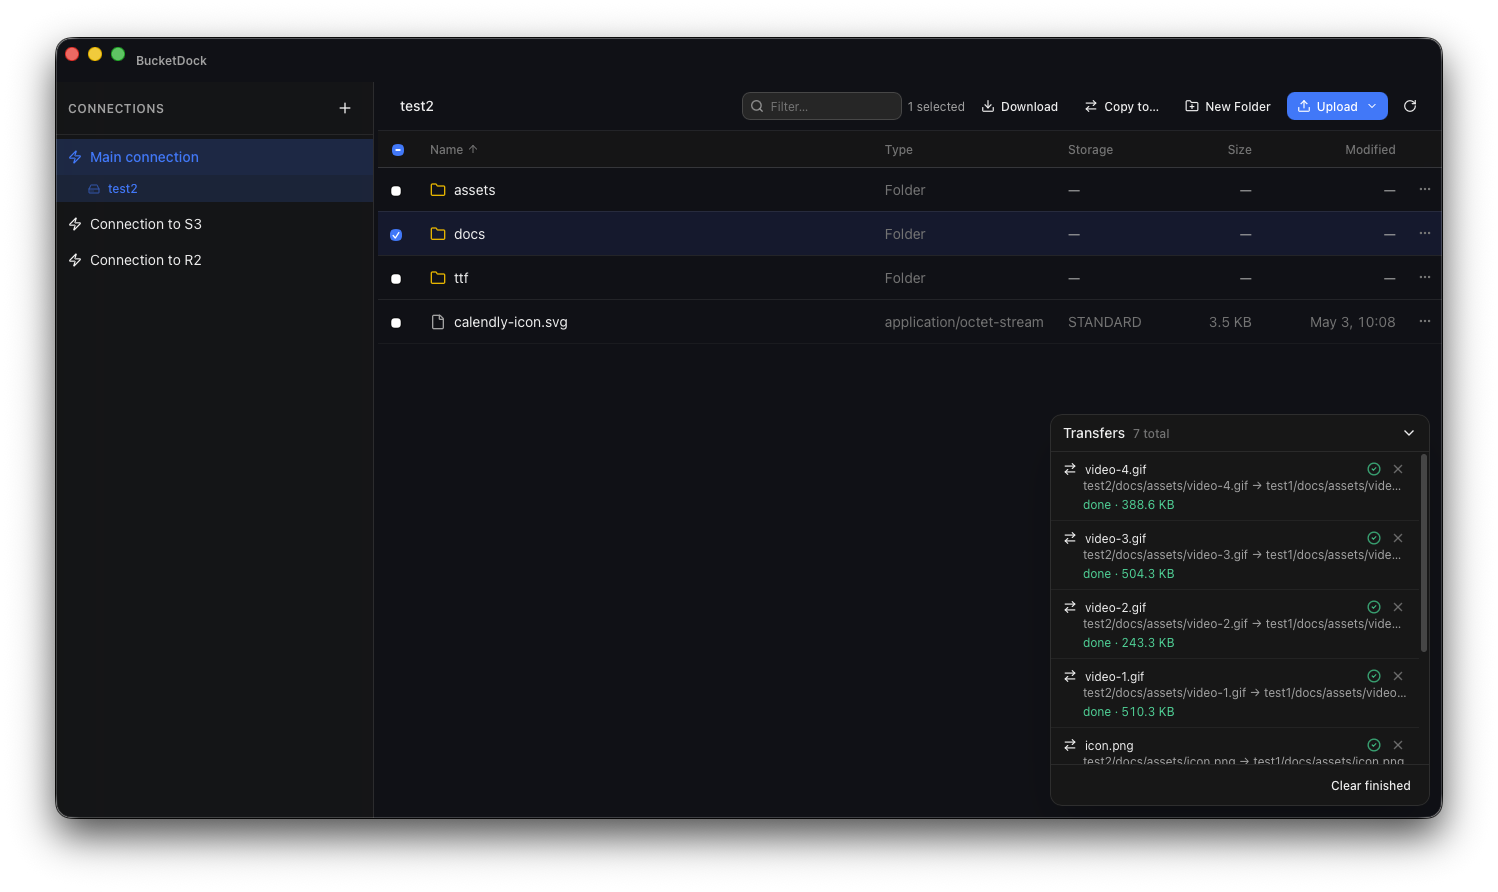
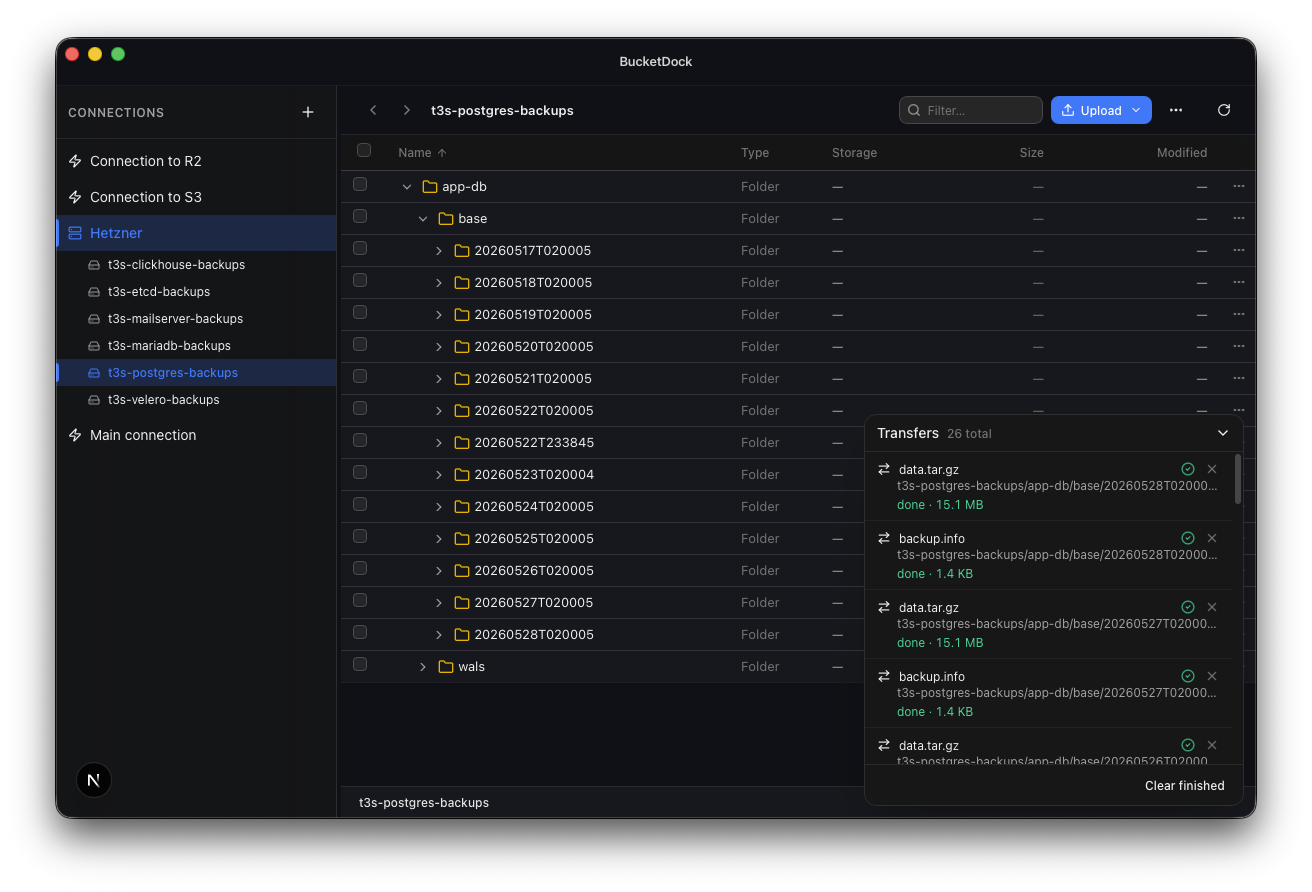
feat: docs and screenshot updates

diff --git a/docs.html b/docs.html
@@ -6,7 +6,7 @@
     <title>Docs · BucketDock</title>
     <meta
       name="description"
-      content="Connect AWS S3, Cloudflare R2 or any S3-compatible endpoint to BucketDock — and learn the keyboard shortcuts and transfer queue."
+      content="Connect AWS S3, Cloudflare R2, Hetzner Object Storage or any S3-compatible endpoint to BucketDock — and learn the keyboard shortcuts and transfer queue."
     />
     <link rel="icon" type="image/svg+xml" href="assets/logo.svg" />
     <link
@@ -139,6 +139,12 @@ Buckets:  your-bucket-name</code></pre>
             separated.
           </p>
 
+          <h3>Hetzner Object Storage</h3>
+          <pre><code>Provider: Hetzner Object Storage
+Endpoint: https://fsn1.your-objectstorage.com
+Region:   (hidden in the app)
+Buckets:  optional list</code></pre>
+
           <h3>S3-compatible (MinIO, Backblaze B2, etc.)</h3>
           <pre><code>Provider: Custom (S3-compatible)
 Endpoint: https://your-endpoint.example.com
@@ -147,10 +153,10 @@ Buckets:  optional list</code></pre>
 
           <h2 id="transfers">Transfer queue</h2>
           <p>
-            Every upload, download and bucket-to-bucket copy is tracked in the
-            dock at the bottom-right of the window. Each row shows live progress
-            (multipart uploads emit per-part progress) and a status indicator.
-            You can:
+            Every upload, download, bucket-to-bucket copy and bulk delete is
+            tracked in the dock at the bottom-right of the window. Each row
+            shows live progress (multipart uploads emit per-part progress, and
+            deletes count objects processed) and a status indicator. You can:
           </p>
           <ul>
             <li><strong>Cancel</strong> a running transfer</li>
@@ -187,6 +193,11 @@ Buckets:  optional list</code></pre>
               direction.
             </li>
             <li>
+              The <strong>Name</strong> column is <strong>resizable</strong>, so
+              long filenames and folder names stay clipped instead of forcing
+              the table wider than needed.
+            </li>
+            <li>
               The Type column shows the
               <strong>real <code>Content-Type</code></strong> the server
               returns. <code>list_objects_v2</code> doesn’t include it, so
@@ -214,6 +225,11 @@ Buckets:  optional list</code></pre>
               Pick <strong>Get Info</strong> to inspect headers and user
               metadata read-only, or <strong>Edit Headers…</strong> to change
               Content-Type, Cache-Control, custom user metadata and more.
+            </li>
+            <li>
+              Folder rows also offer <strong>Calculate Folder Size</strong> in
+              the context menu. BucketDock walks all nested subfolders and shows
+              the total size of every object under that prefix.
             </li>
             <li>
               Renaming a folder or copying a folder between buckets is

diff --git a/index.html b/index.html
@@ -6,7 +6,7 @@
     <title>BucketDock — Native macOS browser for S3-compatible storage</title>
     <meta
       name="description"
-      content="A fast, native macOS desktop app for AWS S3, Cloudflare R2 and other S3-compatible providers. Browse, upload, download, copy between buckets — without the AWS console."
+      content="A fast, native macOS desktop app for AWS S3, Cloudflare R2, Hetzner Object Storage and other S3-compatible providers. Browse, upload, download, copy between buckets — without the AWS console."
     />
     <meta name="theme-color" content="#0a0a0d" />
     <link rel="icon" type="image/svg+xml" href="assets/logo.svg" />
@@ -27,7 +27,7 @@
     />
     <meta
       property="og:description"
-      content="A fast, native macOS desktop app for AWS S3, Cloudflare R2 and other S3-compatible providers."
+      content="A fast, native macOS desktop app for AWS S3, Cloudflare R2, Hetzner Object Storage and other S3-compatible providers."
     />
     <meta property="og:url" content="https://bucketdock.com/" />
     <meta
@@ -114,9 +114,9 @@
         <div class="container">
           <h1>An open-source S3 client<br />for macOS.</h1>
           <p>
-            Connect AWS S3, Cloudflare R2 and any S3-compatible endpoint. Browse
-            buckets, upload, download and copy between providers — from a native
-            Mac app.
+            Connect AWS S3, Cloudflare R2, Hetzner Object Storage and any
+            S3-compatible endpoint. Browse buckets, upload, download and copy
+            between providers — from a native Mac app.
           </p>
           <div class="hero-actions">
             <a class="btn btn-primary" href="install.html"
@@ -169,8 +169,9 @@
               </div>
               <h3>Multi-provider</h3>
               <p>
-                AWS S3, Cloudflare R2, MinIO, Backblaze B2 and any S3-compatible
-                endpoint. Save as many connection profiles as you need.
+                AWS S3, Cloudflare R2, Hetzner Object Storage, MinIO, Backblaze
+                B2 and any S3-compatible endpoint. Save as many connection
+                profiles as you need.
               </p>
             </div>
             <div class="card">
